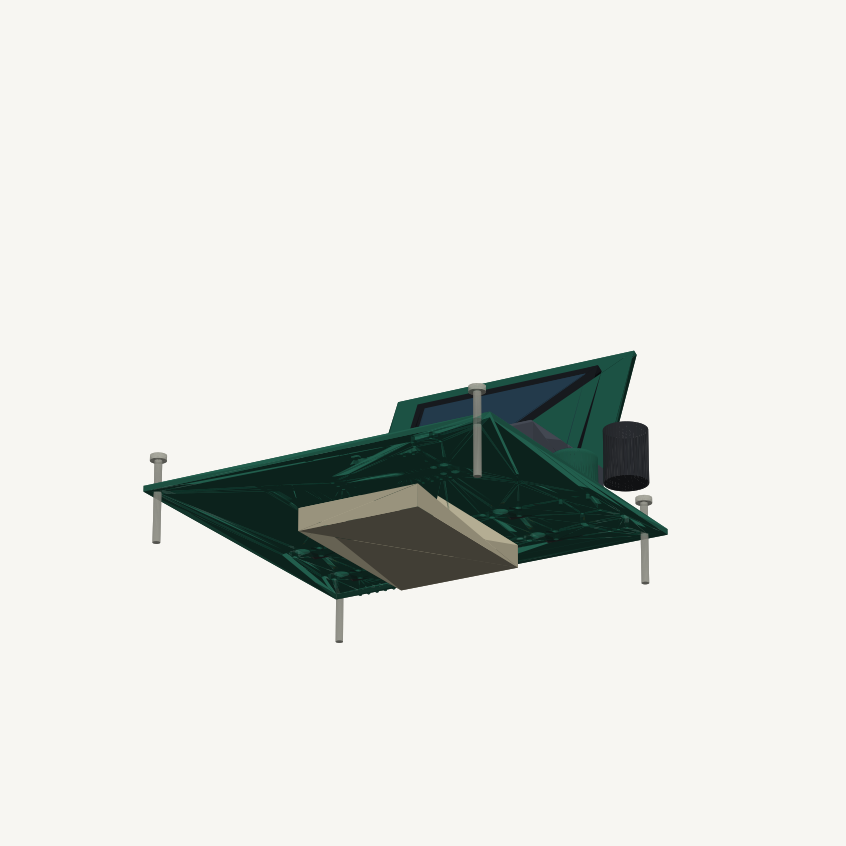
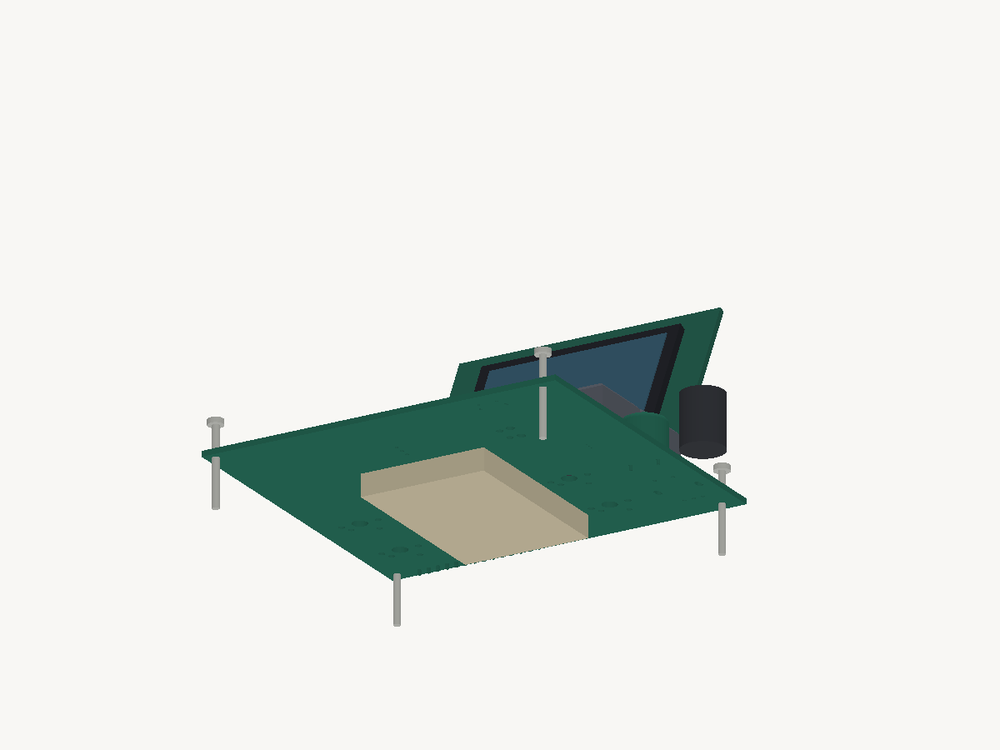
Fix CAD preview rendering and simplify README

Changed region(s): [[0.1537, 0.3987, 0.7991, 0.828]]

diff --git a/enclosure/render_cad.py b/enclosure/render_cad.py
@@ -1,71 +1,118 @@
-"""Render the review STEP parts for the README (cadquery, matplotlib)."""
+"""Make PNG previews from the STEP assembly for the README."""
 from pathlib import Path
+import math
+
 import cadquery as cq
 import numpy as np
-import matplotlib
-matplotlib.use('Agg')
-import matplotlib.pyplot as plt
-from mpl_toolkits.mplot3d.art3d import Poly3DCollection
+from PIL import Image
 
 ROOT = Path(__file__).resolve().parents[1]
 OUT = ROOT / 'docs/images'
 CAD = ROOT / 'production/cad'
+SIZE = (1200, 900)
+BACKGROUND = np.array((248, 247, 244), dtype=np.uint8)
 
-def add_part(faces_all, colors_all, filename, rgb, alpha=1.0, zoffset=0):
-    shape = cq.importers.importStep(str(CAD / filename)).val()
-    if filename == 'pcbfirstdesign.step':
-        shape = shape.translate((-82.5, 101.75, 0))
-    if zoffset:
-        shape = shape.translate((0, 0, zoffset))
-    verts, triangles = shape.tessellate(0.8, 0.3)
-    points = np.array([[v.x, v.y, v.z] for v in verts])
-    faces = points[np.array(triangles)]
-    normals = np.cross(faces[:, 1] - faces[:, 0], faces[:, 2] - faces[:, 0])
-    lengths = np.linalg.norm(normals, axis=1)
-    normals /= np.maximum(lengths[:, None], 1e-9)
-    light = np.array([0.3, -0.45, 0.84])
-    illumination = np.clip(0.64 + 0.36 * (normals @ light), 0.32, 1)
-    colors = np.clip(np.array(rgb)[None, :] * illumination[:, None], 0, 1)
-    faces_all.extend(faces)
-    colors_all.extend(np.column_stack((colors, np.full(len(colors), alpha))))
+PARTS = {
+    'pcbfirstdesign.step': (36, 99, 81),
+    'leds.step': (246, 174, 62),
+    'switches.step': (55, 57, 62),
+    'battery.step': (188, 178, 151),
+    'base-plate.step': (192, 203, 204),
+    'switch-deck.step': (203, 213, 214),
+    'display-flap-open.step': (196, 209, 211),
+    'charger.step': (51, 53, 59),
+    'hinges.step': (186, 143, 63),
+    'display-board.step': (35, 88, 73),
+    'display-bezel.step': (32, 34, 39),
+    'display-glass.step': (51, 83, 101),
+    'keycaps.step': (85, 89, 98),
+    'knob.step': (50, 52, 57),
+    'fasteners.step': (178, 179, 173),
+}
 
-def render(filename, elev, azim, placement=False, show_panels=True):
-    fig = plt.figure(figsize=(12, 8.4), dpi=125, facecolor='#f7f6f2')
-    ax = fig.add_subplot(111, projection='3d', facecolor='#f7f6f2')
-    faces_all, colors_all = [], []
-    def add(filename, rgb, alpha=1.0):
-        add_part(faces_all, colors_all, filename, rgb, alpha)
-    add('pcbfirstdesign.step', (0.14, 0.39, 0.32))
-    add('leds.step', (0.97, 0.68, 0.24))
-    add('switches.step', (0.24, 0.25, 0.26), 0.28 if placement else 1)
-    if not placement:
-        add('battery.step', (0.75, 0.72, 0.61))
-        if show_panels:
-            add('base-plate.step', (0.64, 0.72, 0.75), 0.8)
-            add('switch-deck.step', (0.61, 0.69, 0.72), 0.25)
-            add('display-flap-open.step', (0.65, 0.73, 0.76), 0.55)
-        add('charger.step', (0.23, 0.24, 0.27))
-        add('hinges.step', (0.75, 0.57, 0.25))
-        add('display-board.step', (0.12, 0.35, 0.29))
-        add('display-bezel.step', (0.10, 0.11, 0.13))
-        add('display-glass.step', (0.15, 0.25, 0.32))
-        add('keycaps.step', (0.28, 0.30, 0.34))
-        add('knob.step', (0.19, 0.20, 0.22))
-        add('fasteners.step', (0.75, 0.75, 0.70))
-        ax.set(xlim=(-7, 105), ylim=(-12, 128), zlim=(-14, 77))
-        ax.set_box_aspect((112, 140, 91), zoom=0.95)
-    else:
-        ax.set(xlim=(-5, 100), ylim=(37, 92), zlim=(0, 22))
-        ax.set_box_aspect((105, 55, 30), zoom=0.85)
-    ax.add_collection3d(Poly3DCollection(faces_all, facecolors=colors_all, edgecolors='none'))
-    ax.view_init(elev=elev, azim=azim)
-    ax.set_axis_off()
-    fig.savefig(OUT / filename, facecolor=fig.get_facecolor(), bbox_inches='tight', pad_inches=0.15)
-    plt.close(fig)
+
+def load_parts():
+    parts = {}
+    light = np.array((0.38, -0.48, 0.79))
+    for filename, color in PARTS.items():
+        shape = cq.importers.importStep(str(CAD / filename)).val()
+        if filename == 'pcbfirstdesign.step':
+            shape = shape.translate((-82.5, 101.75, 0))
+        vertices, triangles = shape.tessellate(0.8, 0.3)
+        points = np.array([[v.x, v.y, v.z] for v in vertices], dtype=np.float32)
+        faces = points[np.asarray(triangles, dtype=np.int32)]
+        normals = np.cross(faces[:, 1] - faces[:, 0], faces[:, 2] - faces[:, 0])
+        normals /= np.maximum(np.linalg.norm(normals, axis=1)[:, None], 1e-7)
+        shade = 0.73 + 0.27 * np.abs(normals @ light)
+        colors = np.clip(np.asarray(color) * shade[:, None], 0, 255).astype(np.uint8)
+        parts[filename] = (faces, colors)
+    return parts
+
+
+def render(parts, filename, elev, azim, names, bounds):
+    width, height = SIZE
+    angle, elevation = math.radians(azim), math.radians(elev)
+    forward = np.array((math.cos(elevation) * math.cos(angle),
+                        math.cos(elevation) * math.sin(angle), math.sin(elevation)))
+    right = np.array((-math.sin(angle), math.cos(angle), 0.0))
+    up = np.cross(forward, right)
+    center = np.array(((bounds[0] + bounds[1]) / 2,
+                       (bounds[2] + bounds[3]) / 2,
+                       (bounds[4] + bounds[5]) / 2))
+    corners = np.array([[x, y, z] for x in bounds[:2]
+                        for y in bounds[2:4] for z in bounds[4:]]) - center
+    scale = min(width * 0.86 / np.ptp(corners @ right),
+                height * 0.84 / np.ptp(corners @ up))
+    image = np.empty((height, width, 3), dtype=np.uint8)
+    image[:] = BACKGROUND
+    depth = np.full((height, width), -np.inf, dtype=np.float32)
+
+    for name in names:
+        faces, colors = parts[name]
+        relative = faces - center
+        px = width / 2 + (relative @ right) * scale
+        py = height / 2 - (relative @ up) * scale
+        pz = relative @ forward
+        for xs, ys, zs, color in zip(px, py, pz, colors):
+            x0 = max(0, int(math.floor(xs.min())))
+            x1 = min(width, int(math.ceil(xs.max())) + 1)
+            y0 = max(0, int(math.floor(ys.min())))
+            y1 = min(height, int(math.ceil(ys.max())) + 1)
+            if x0 >= x1 or y0 >= y1:
+                continue
+            denominator = ((ys[1] - ys[2]) * (xs[0] - xs[2])
+                           + (xs[2] - xs[1]) * (ys[0] - ys[2]))
+            if abs(denominator) < 1e-6:
+                continue
+            yy, xx = np.mgrid[y0:y1, x0:x1]
+            xx = xx + 0.5
+            yy = yy + 0.5
+            a = ((ys[1] - ys[2]) * (xx - xs[2])
+                 + (xs[2] - xs[1]) * (yy - ys[2])) / denominator
+            b = ((ys[2] - ys[0]) * (xx - xs[2])
+                 + (xs[0] - xs[2]) * (yy - ys[2])) / denominator
+            c = 1 - a - b
+            near = a * zs[0] + b * zs[1] + c * zs[2]
+            tile_depth = depth[y0:y1, x0:x1]
+            visible = (a >= -1e-5) & (b >= -1e-5) & (c >= -1e-5) & (near > tile_depth)
+            tile_depth[visible] = near[visible]
+            image[y0:y1, x0:x1][visible] = color
+
+    Image.fromarray(image).resize((1000, 750), Image.Resampling.LANCZOS).save(OUT / filename)
+
 
 if __name__ == '__main__':
     OUT.mkdir(parents=True, exist_ok=True)
-    render('cad-overview.png', 37, -70, show_panels=False)
-    render('cad-side.png', 16, 20)
-    render('cad-switch-led-placement.png', 62, -70, placement=True)
-    render('cad-battery.png', -22, -60, show_panels=False)
+    parts = load_parts()
+    detailed = list(PARTS)
+    render(parts, 'cad-overview.png', 37, -70,
+           [p for p in detailed if p not in ('base-plate.step', 'switch-deck.step', 'display-flap-open.step')],
+           (-7, 105, -12, 128, -14, 77))
+    render(parts, 'cad-side.png', 16, 20, detailed,
+           (-7, 105, -12, 128, -14, 77))
+    render(parts, 'cad-switch-led-placement.png', 62, -70,
+           ['pcbfirstdesign.step', 'leds.step', 'switches.step'],
+           (-5, 100, 37, 92, 0, 22))
+    render(parts, 'cad-battery.png', -22, -60,
+           [p for p in detailed if p not in ('base-plate.step', 'switch-deck.step', 'display-flap-open.step')],
+           (-7, 105, -12, 128, -14, 77))

diff --git a/README.md b/README.md
@@ -7,33 +7,16 @@ The hardware is mainly composed of an 8-key mini game player with rotary encoder
 ![Wokwi CI](https://github.com/ttdgp6b7sy-ai/oxide-keys/actions/workflows/wokwi.yml/badge.svg)
 
 ## CAD views
-![Board with eight switches and caps, display, knob and fasteners; acrylic hidden to show the components](docs/images/cad-overview.png)
-![Acrylic enclosure and display flap from the side](docs/images/cad-side.png)
-![Eight LEDs beside the switch footprints, with the deck removed and switch housings transparent](docs/images/cad-switch-led-placement.png)
-![Battery location under the PCB](docs/images/cad-battery.png)
+![Oxide Keys with the parts in place](docs/images/cad-overview.png)
+![Oxide Keys CAD from the side](docs/images/cad-side.png)
+![Switches and LEDs on the PCB](docs/images/cad-switch-led-placement.png)
+![Battery below the PCB](docs/images/cad-battery.png)
 
-[Assembly STEP](production/cad/OxideKeys-review-assembly-detailed.step) · [Enclosure SVG](enclosure/Oxidekeysenclosure.svg) · [Gerbers](production/gerbers.zip) · [Firmware UF2](production/firmware/oxide-keys.uf2)
+[Assembly STEP](production/cad/OxideKeys-review-assembly-detailed.step) · [Enclosure SVG](enclosure/Oxidekeysenclosure.svg)
 
-The STEP assembly shows the eight Cherry MX2A Orange switches (`SW1`–`SW8`),
-eight SK6812MINI LEDs (`D1`–`D8`), eight blank keycaps, encoder knob, battery,
-TP4056 charger IC, display board, two brass hinges, acrylic plates, four M2
-standoffs and fasteners. The KiCad export supplies the PCB, Pico W, buzzer,
-encoder, header and the components that have 3D models. The LEDs sit toward
-one edge of each switch rather than directly under its stem. Spare parts,
-shipping, raw sheet and wire stock are purchase quantities, not fitted parts.
+Production files: [CAD](production/cad/) · [UF2 firmware](production/firmware/oxide-keys.uf2) · [firmware source package](production/firmware/firmware-source.zip) · [Gerbers](production/gerbers.zip). I added the switches, LEDs, keycaps, display, knob, battery and hinges to the CAD. The extra switches and LEDs in the BOM are spares. I still need to test fit the acrylic and hinges when I get the parts.
 
-**Display mismatch:** the BOM links to the MAR2406 Arduino shield. Its [manual](https://www.lcdwiki.com/res/MAR2406/2.4inch_Arduino_8BIT_Module_MAR2406_User_Manual_EN.pdf)
-specifies an 8-bit parallel interface and a 72.2 × 52.7 mm board. The schematic
-and Rust firmware instead use an SPI ILI9341 module. The CAD now represents the
-listed shield's board size and screen area on a larger flap, but it will not
-operate from the current display wiring. The 1N4148 pack in the BOM also has
-no fitted footprint on the current PCB.
-
-The added parts are named review geometry, not manufacturer STEP files.
-Battery placement beneath the PCB uses 10 mm standoffs; switch clips in 3 mm
-acrylic, light path, hinge mounting and clearances still need measurements or a
-physical test fit. Do not cut the enclosure or buy the parallel display as a
-drop-in replacement for the SPI module on the basis of these renders.
+The display linked in [BOM.csv](BOM.csv) is an 8-bit Arduino shield, but my PCB and Rust code use SPI. I need an SPI display instead before I buy the parts. The 1N4148 pack in the BOM also isn't on the PCB.
 
 ## Demo
 No physical build yet but the image above shows the PCB board to be made.
